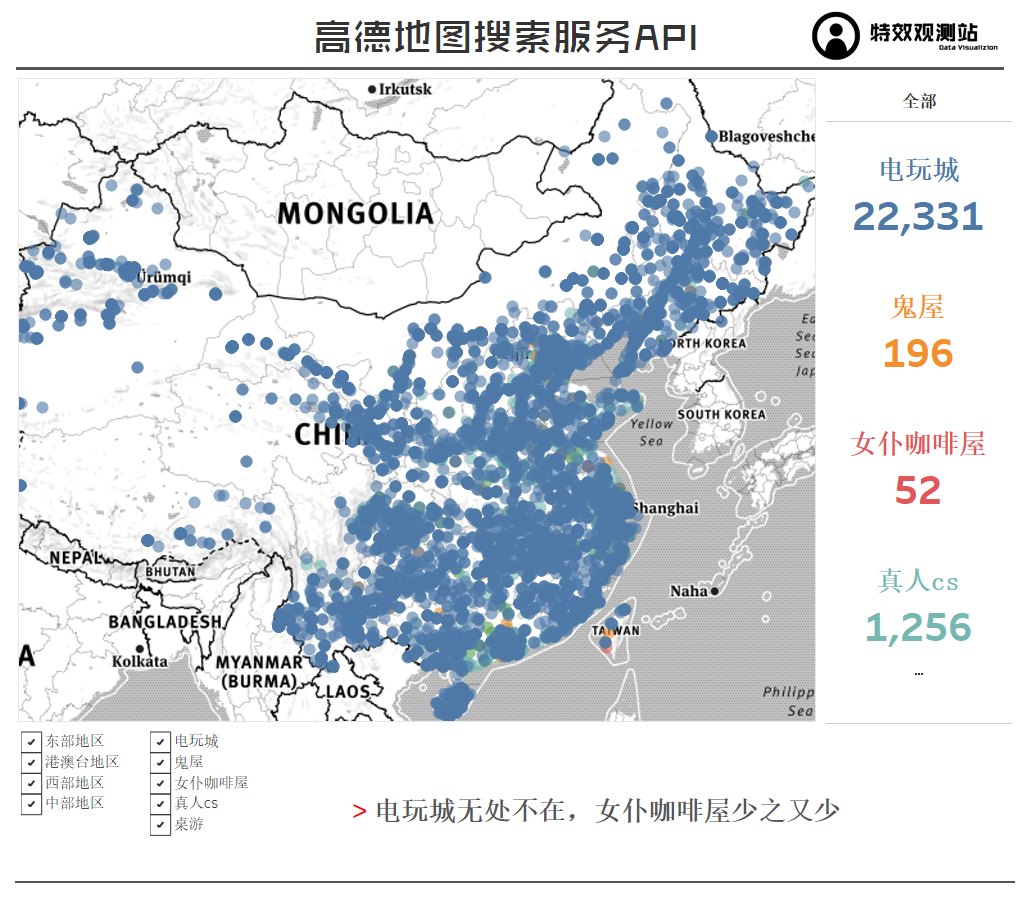
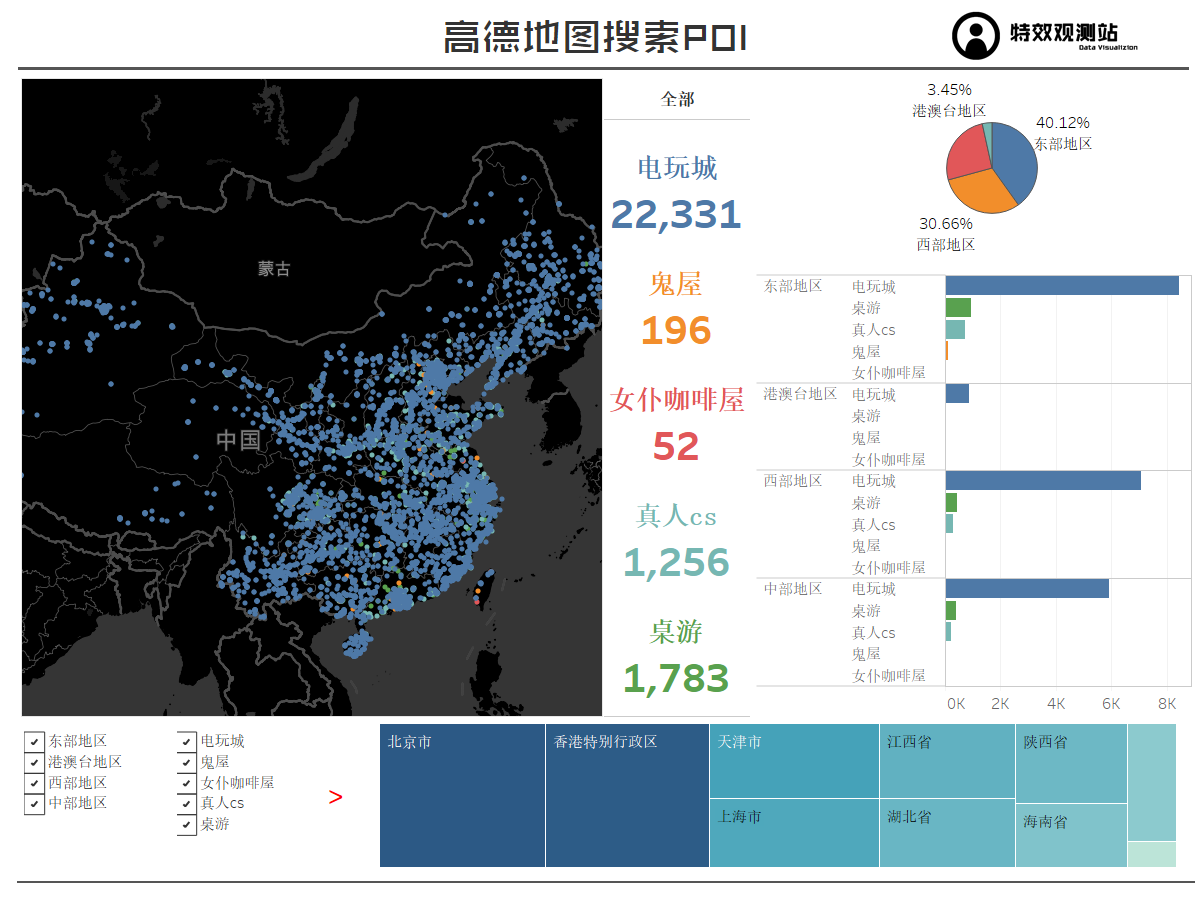
modified print css style & updated posts

diff --git a/infovis.html b/infovis.html
@@ -5,8 +5,28 @@ permalink: /infovis/
 ---
  <style type="text/css">
    @media print {
-    #web_design, .navbar, footer, header.masthead h2, .portfolio-modal mfp-hide, .portfolio hr .cd-top {
+    #web_design, .navbar, footer, header, header.masthead h2, .portfolio-modal mfp-hide, .portfolio hr .cd-top, .row {
     display: none;
+  }
+  #container h2 {
+    position: fixed;
+    top: : 0;
+  }
+  .portfolio {
+    padding-top: 0rem;
+  }
+  .img_forprint {
+    display: block;
+  }
+  #fold_forprint {
+    width: 100%;
+  }
+  .copyright {
+        padding-bottom: 0.5rem!important;
+        padding-top: 0.5rem!important;
+  }
+  a table {
+    color: black;
   }
 }
  </style>
@@ -46,6 +66,20 @@ permalink: /infovis/
       <div class="container">
         <h2 class="text-center text-uppercase text-secondary mb-0"><i class="fa fa-bar-chart" aria-hidden="true"></i>&nbsp;数据可视化</h2>
         <hr class="star-dark mb-5">
+        <center class="img_forprint">——————————————  你周围有什么有趣的地方？ ——————————————</center>
+        <a href="http://www.elpsycongroo.cc/2018/01/03/gaodemap-search-api-keywords-visualization/"><img class="img_forprint" id="fold_forprint" src="/assets/images/other/GaodeMapSearchAPI.png"></a>
+        <a href="http://www.elpsycongroo.cc/2017/10/22/china-earthquakes-visualization/"><table class="img_forprint">
+          <tr>
+            <td><img class="img_forprint" src="/assets/images/other/China__2012~2017_Earthquakes_Visualization.jpg">中国地震地图气泡图</td>
+            <td><img class="img_forprint" src="/assets/images/other/China__2006~2015_Earthquakes_Visualization.jpg" height="25%">地震十年走势</td>
+          <tr>
+            <td><img class="img_forprint" src="/assets/images/other/DepthOfHypocenter.png" height="25%">中国浅源地震多还是深源地震多？</td>
+            <td><img class="img_forprint" src="/assets/images/other/SouthwestEarthquake.png">西南：十年三大震</td>
+          </tr>
+          </tr>
+        </table></a>
+        
+        
         <div class="row">
           <div class="col-md-6 col-lg-4">
       <a class="portfolio-item d-block mx-auto" href="#portfolio-modal-1">
@@ -214,11 +248,12 @@ permalink: /infovis/
         </a>
         <div class="container text-center">
           <div class="row">
-            <div class="col-lg-8 mx-auto">
+            <div class="mx-auto">
               <h2 class="text-secondary text-uppercase mb-0">期末项目 - 利用高德API</h2>
               <hr class="star-dark mb-5">
                 <p><i class="fa fa-hand-o-right" aria-hidden="true"></i><a href="http://www.elpsycongroo.cc/2018/01/03/gaodemap-search-api-keywords-visualization/">&nbsp;原文</a></p>
-<div class='tableauPlaceholder' id='viz1514969953920' style='position: relative'><noscript><a href='#'><img alt='故事 1 ' src='https:&#47;&#47;public.tableau.com&#47;static&#47;images&#47;AP&#47;API_7&#47;1_1&#47;1_rss.png' style='border: none' /></a></noscript><object class='tableauViz'  style='display:none;'><param name='host_url' value='https%3A%2F%2Fpublic.tableau.com%2F' /> <param name='embed_code_version' value='3' /> <param name='site_root' value='' /><param name='name' value='API_7&#47;1_1' /><param name='tabs' value='no' /><param name='toolbar' value='yes' /><param name='static_image' value='https:&#47;&#47;public.tableau.com&#47;static&#47;images&#47;AP&#47;API_7&#47;1_1&#47;1.png' /> <param name='animate_transition' value='yes' /><param name='display_static_image' value='yes' /><param name='display_spinner' value='yes' /><param name='display_overlay' value='yes' /><param name='display_count' value='yes' /><param name='filter' value='publish=yes' /></object></div>                <script type='text/javascript'>                    var divElement = document.getElementById('viz1514969953920');                    var vizElement = divElement.getElementsByTagName('object')[0];                    vizElement.style.width='1060px';vizElement.style.height='1022px';                    var scriptElement = document.createElement('script');                    scriptElement.src = 'https://public.tableau.com/javascripts/api/viz_v1.js';                    vizElement.parentNode.insertBefore(scriptElement, vizElement);                </script>
+<div class='tableauPlaceholder' id='viz1515254411615' style='position: relative'><noscript><a href='#'><img alt='高德地图搜索服务API ' src='https:&#47;&#47;public.tableau.com&#47;static&#47;images&#47;PO&#47;POI_6&#47;API&#47;1_rss.png' style='border: none' /></a></noscript><object class='tableauViz'  style='display:none;'><param name='host_url' value='https%3A%2F%2Fpublic.tableau.com%2F' /> <param name='embed_code_version' value='3' /> <param name='site_root' value='' /><param name='name' value='POI_6&#47;API' /><param name='tabs' value='no' /><param name='toolbar' value='yes' /><param name='static_image' value='https:&#47;&#47;public.tableau.com&#47;static&#47;images&#47;PO&#47;POI_6&#47;API&#47;1.png' /> <param name='animate_transition' value='yes' /><param name='display_static_image' value='yes' /><param name='display_spinner' value='yes' /><param name='display_overlay' value='yes' /><param name='display_count' value='yes' /><param name='filter' value='publish=yes' /></object></div>                
+<script type='text/javascript'>                    var divElement = document.getElementById('viz1515254411615');                    var vizElement = divElement.getElementsByTagName('object')[0];                    vizElement.style.width='1200px';vizElement.style.height='927px';                    var scriptElement = document.createElement('script');                    scriptElement.src = 'https://public.tableau.com/javascripts/api/viz_v1.js';                    vizElement.parentNode.insertBefore(scriptElement, vizElement);                </script>
 <br/><br/><br/>
               <a class="btn btn-primary btn-lg rounded-pill portfolio-modal-dismiss" href="#">
                 <i class="fa fa-close"></i>

diff --git a/portfolio.html b/portfolio.html
@@ -5,16 +5,46 @@ permalink: /portfolio/
 ---
    <style type="text/css">
    @media print {
-    #infovis, .navbar, footer, header.masthead h2, .portfolio-modal mfp-hide, .portfolio hr, .cd-top {display: none;}
+    #infovis, .navbar, footer, header.masthead h2, .portfolio-modal mfp-hide, .portfolio hr, .cd-top, .row {display: none;}
+
+header.masthead {
+  padding-bottom: .5rem;
+}
 
 #web_design {
     background-color: white!important;
 }
 
 #web_design h2{
+    display: none;
     color: #2c3e50!important;
 }
 
+.img_forprint {
+  display: block;
+}
+dl dd{  
+    margin-top:10px;  
+    height:250px;  
+    border:1px solid  #9f8f68;
+}  
+dl dd img{  
+    float:left;  
+    border:1px solid  #9f8f68;
+}  
+dl dd p{  
+    /*line-height:250px;*/
+    vertical-align:middle;  
+    border:1px solid  #9f8f68;
+    text-align:center;  
+    word-break:break-all;
+    margin-top: 96px;
+    width:100%;
+}
+  .copyright {
+        padding-bottom: 0.5rem!important;
+        padding-top: 0.5rem!important;
+  }  
 }
 </style>
  <!-- Navigation -->
@@ -102,10 +132,23 @@ permalink: /portfolio/
     </section>
 
     <!-- WED Section -->
+<dl class="img_forprint">  
+            <dd><a href="http://www.elpsycongroo.cc/2017/12/28/svg-works/"><img class="img_forprint" src="/assets/images/svg/SVG-Easy.gif"  width="350" height="250"></a><p style="color: black;">SVG动画作品合集<br/>通往精通SVG动画之路的每一步！</p></dd>  
+            <dd><a href="http://www.elpsycongroo.cc/2018/01/01/css-animation/"><img class="img_forprint" src="/assets/images/other/EXAMPLE.jpg"  width="350" height="250"></a><p style="color: black;">使用CSS动画<br/>简单介绍一下CSS动画以及在本博客的使用实例</p></dd>  </dd> 
+            <dd><a href="https://codepen.io/Observer-L/pen/vpJxJB/"><img class="img_forprint" src="/assets/images/other/404.gif"   width="350" height="250"></a><p style="color: black;">自定义404页面<br/>404了？！去你的吧！！！</p></dd>  </dd>  
+</dl>  
+
+        
+
+        
+
     <section class="bg-primary text-white mb-0 portfolio" id="web_design">
       <div class="container">
         <h2 class="text-center text-uppercase text-white"><i class="fa fa-desktop" aria-hidden="true"></i>&nbsp;网页设计</h2>
         <hr class="star-light mb-5">
+
+
+
         <div class="row">
 
           <!-- 第一篇 -->
@@ -118,7 +161,8 @@ permalink: /portfolio/
               </div>
               <img class="img-fluid" src="/assets/images/svg/SVG-Easy.gif" alt="1..">
             </a>
-        </div>   
+        </div>
+
 
           <!-- 第二篇 -->
           <div class="col-md-6 col-lg-4">

diff --git a/assets/css/freelancer.min.css b/assets/css/freelancer.min.css
@@ -118,6 +118,10 @@
   text-decoration: none;
 }
 
+  .img_forprint {
+  display: none;
+}
+
 
 /*print css*/
 @media print {

diff --git a/posts/infovis/2018-01-03-gaodemap-search-api-keywords-visualization.md b/posts/infovis/2018-01-03-gaodemap-search-api-keywords-visualization.md
@@ -5,6 +5,7 @@ date: 2018-01-03
 categories:
   - Data_Visualization
   - Portfolio
+tag: infovis
 description: "数据可视化课程期末项目"
 img_words: "数据可视化"
 image: /assets/images/other/GaodeMapSearchAPI.png
@@ -17,12 +18,5 @@ comments: true
 
 ---
 
-<div class='tableauPlaceholder' id='viz1514970249052' style='position: relative'>
-	<noscript><a href='#'><img alt='故事 1 ' src='https:&#47;&#47;public.tableau.com&#47;static&#47;images&#47;AP&#47;API_7&#47;1_1&#47;1_rss.png' style='border: none' /></a>
-	</noscript>
-	<object class='tableauViz'  style='display:none;'><param name='host_url' value='https%3A%2F%2Fpublic.tableau.com%2F' /> <param name='embed_code_version' value='3' /> <param name='site_root' value='' /><param name='name' value='API_7&#47;1_1' /><param name='tabs' value='no' /><param name='toolbar' value='yes' /><param name='static_image' value='https:&#47;&#47;public.tableau.com&#47;static&#47;images&#47;AP&#47;API_7&#47;1_1&#47;1.png' /> <param name='animate_transition' value='yes' /><param name='display_static_image' value='yes' /><param name='display_spinner' value='yes' /><param name='display_overlay' value='yes' /><param name='display_count' value='yes' /><param name='filter' value='publish=yes' />
-	</object>
-</div>
-
-<script type='text/javascript'>                    var divElement = document.getElementById('viz1514970249052');                    var vizElement = divElement.getElementsByTagName('object')[0];                    vizElement.style.width='1060px';vizElement.style.height='1022px';                    var scriptElement = document.createElement('script');                    scriptElement.src = 'https://public.tableau.com/javascripts/api/viz_v1.js';                    vizElement.parentNode.insertBefore(scriptElement, vizElement);                
-</script>
+<div class='tableauPlaceholder' id='viz1515254411615' style='position: relative'><noscript><a href='#'><img alt='高德地图搜索服务API ' src='https:&#47;&#47;public.tableau.com&#47;static&#47;images&#47;PO&#47;POI_6&#47;API&#47;1_rss.png' style='border: none' /></a></noscript><object class='tableauViz'  style='display:none;'><param name='host_url' value='https%3A%2F%2Fpublic.tableau.com%2F' /> <param name='embed_code_version' value='3' /> <param name='site_root' value='' /><param name='name' value='POI_6&#47;API' /><param name='tabs' value='no' /><param name='toolbar' value='yes' /><param name='static_image' value='https:&#47;&#47;public.tableau.com&#47;static&#47;images&#47;PO&#47;POI_6&#47;API&#47;1.png' /> <param name='animate_transition' value='yes' /><param name='display_static_image' value='yes' /><param name='display_spinner' value='yes' /><param name='display_overlay' value='yes' /><param name='display_count' value='yes' /><param name='filter' value='publish=yes' /></object></div>                
+<script type='text/javascript'>                    var divElement = document.getElementById('viz1515254411615');                    var vizElement = divElement.getElementsByTagName('object')[0];                    vizElement.style.width='1200px';vizElement.style.height='927px';                    var scriptElement = document.createElement('script');                    scriptElement.src = 'https://public.tableau.com/javascripts/api/viz_v1.js';                    vizElement.parentNode.insertBefore(scriptElement, vizElement);                </script>
